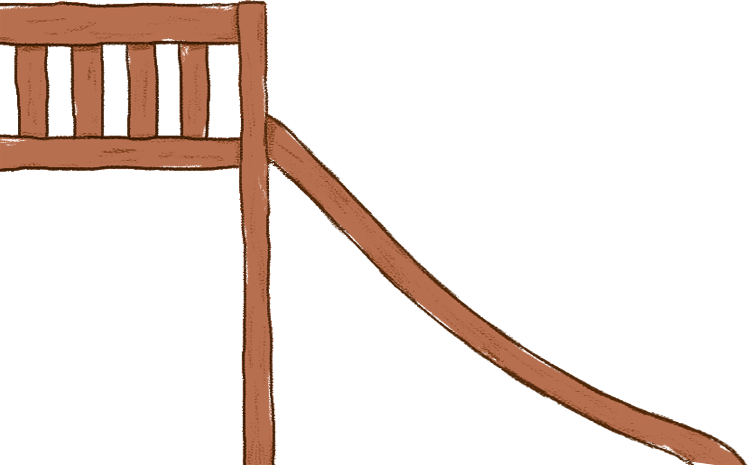
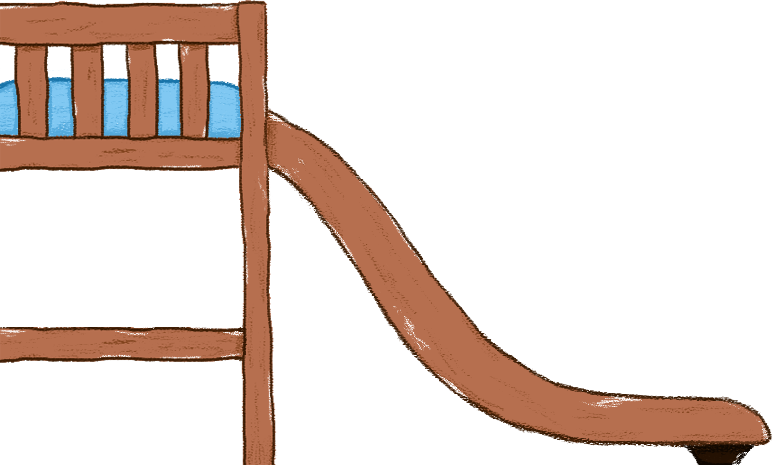
Changed Bed

Changed region(s): [[0.0, 0.0, 1.0, 1.0], [0.0615, 0.0, 0.123, 0.0301]]

diff --git a/source/js/screens/screens.js b/source/js/screens/screens.js
@@ -179,13 +179,13 @@ function screen01() {
     new PolygonFromSVG(
       world,
       {
-        x: 300,
-        y: 500,
+        x: 380,
+        y: 510,
         w: 685,
         h: 511,
         fromFile: "assets/images/bed.svg",
         scale: 0.95,
-        color: color(255, 255, 255),
+        color: color(255, 255, 255, 0),
         image: imgBed,
       },
       { isStatic: true, angle: 0 }
